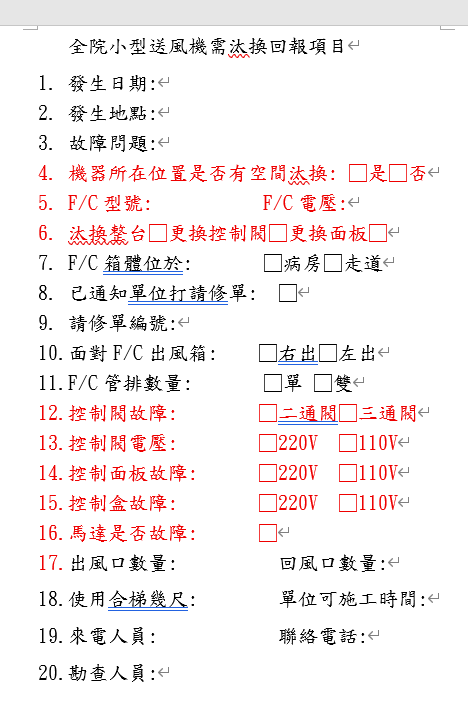
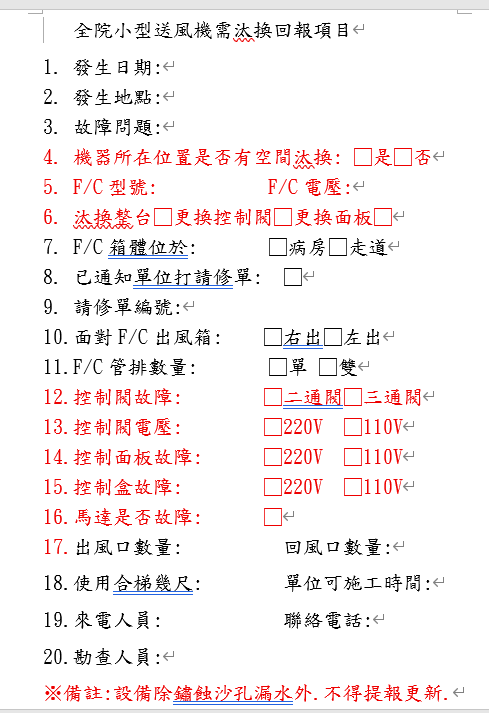
.

Changed region(s): [[0.0, 0.0, 1.0, 1.0], [0.5385, 0.4494, 0.9274, 0.9287]]

diff --git a/script.js b/script.js
@@ -334,7 +334,7 @@ function clearForm() {
   const m = today.getMonth() + 1;
   const d = today.getDate();
   const dateStr = `${y}-${String(m).padStart(2, "0")}-${String(d).padStart(2, "0")}`;
-  const label = `${y - 1911}.${m}.${d}`;
+  const label = `${y - 1911}.${String(m).padStart(2, "0")}.${String(d).padStart(2, "0")}`;
   formCard.querySelectorAll(".date-picker-trigger").forEach((el) => {
     el.dataset.date = dateStr;
     el.textContent = label;
@@ -433,7 +433,7 @@ function fillLiFromLine(li, line) {
         const [rocY, m, d] = val.split(".").map(Number);
         const y = rocY + 1911;
         el.dataset.date = `${y}-${String(m).padStart(2, "0")}-${String(d).padStart(2, "0")}`;
-        el.textContent = val;
+        el.textContent = `${rocY}.${String(m).padStart(2, "0")}.${String(d).padStart(2, "0")}`;
       }
     } else {
       el.value = val;
@@ -502,7 +502,7 @@ function closeDatePicker(doConfirm) {
     const d = dayArr[getIdx("pcol-day")];
     if (y != null && m != null && d != null) {
       pickerTarget.dataset.date = `${y}-${String(m).padStart(2, "0")}-${String(d).padStart(2, "0")}`;
-      pickerTarget.textContent = `${y - 1911}.${m}.${d}`;
+      pickerTarget.textContent = `${y - 1911}.${String(m).padStart(2, "0")}.${String(d).padStart(2, "0")}`;
       const card = pickerTarget.closest(".form-card");
       if (card) saveFormState(card.id);
     }
@@ -593,7 +593,7 @@ function debounce(fn, ms) {
   const m = today.getMonth() + 1;
   const d = today.getDate();
   const dateStr = `${y}-${String(m).padStart(2, "0")}-${String(d).padStart(2, "0")}`;
-  const label = `${y - 1911}.${m}.${d}`;
+  const label = `${y - 1911}.${String(m).padStart(2, "0")}.${String(d).padStart(2, "0")}`;
   document.querySelectorAll(".date-picker-trigger").forEach((el) => {
     el.dataset.date = dateStr;
     el.textContent = label;
@@ -646,8 +646,14 @@ function loadFormState(formId) {
     });
     card.querySelectorAll(".date-picker-trigger").forEach((el, i) => {
       if (state.dates?.[i]?.text) {
-        if (state.dates[i].date) el.dataset.date = state.dates[i].date;
-        el.textContent = state.dates[i].text;
+        const date = state.dates[i].date;
+        if (date) {
+          const [y, m, d] = date.split("-").map(Number);
+          el.dataset.date = date;
+          el.textContent = `${y - 1911}.${String(m).padStart(2, "0")}.${String(d).padStart(2, "0")}`;
+        } else {
+          el.textContent = state.dates[i].text;
+        }
       }
     });
   } catch {}
@@ -709,7 +715,7 @@ bindEvents();
 
 const _schedule = [
   { name: "終端箱拆除", date: "2026-06-03" },
-  { name: "小型送風機需汰換", date: "2026-08-10" },
+  { name: "小型送風機需汰換", date: "2026-09-23" },
   { name: "保溫失效", date: "2026-08-27" },
   { name: "變頻器故障", date: "2026-04-22" },
   { name: "管路漏水故障", date: "2026-05-25" },
@@ -728,7 +734,7 @@ document.addEventListener("DOMContentLoaded", function () {
       li.textContent = `${name}：不明(?天)前`;
     } else {
       const [y, m, d] = date.split("-").map(Number);
-      const rocDate = `${y - 1911}.${m}.${d}`;
+      const rocDate = `${y - 1911}.${String(m).padStart(2, "0")}.${String(d).padStart(2, "0")}`;
       const diff = Math.abs(Math.round((today - new Date(date)) / 86400000));
       li.textContent = `${name}：${rocDate}(${diff}天前)`;
       li.className = diff <= 30 ? "schedule-green" : "schedule-red";

diff --git a/index.html b/index.html
@@ -327,6 +327,11 @@
                 <span class="item-label">勘查人員：</span>
                 <input type="text" class="medium" placeholder="" />
               </li>
+              <li>
+                <span class="item-label" style="color: red; font-weight: bold"
+                  >※備註：設備除<span>鏽蝕沙孔</span>漏水外．不得提報更新。</span
+                >
+              </li>
             </ol>
           </div>
           <div class="export-bar">
